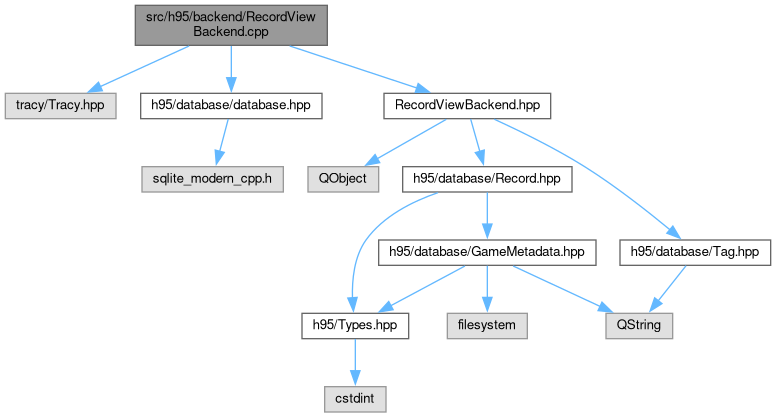
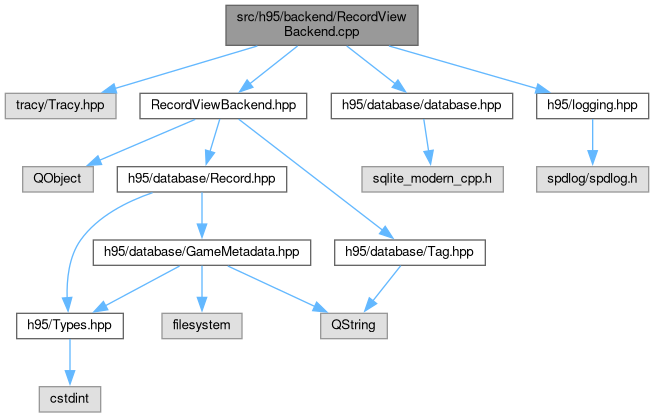
deploy: c4b53c696b7974b239e17b2eb460e0fbded31eec

diff --git a/GameMetadata_8hpp_source.html b/GameMetadata_8hpp_source.html
@@ -148,22 +148,19 @@ $(document).ready(function(){initNavTree('GameMetadata_8hpp_source.html',''); in
 <div class="line"><a id="l00040" name="l00040"></a><span class="lineno">   40</span> </div>
 <div class="line"><a id="l00042" name="l00042"></a><span class="lineno">   42</span>    <span class="keyword">static</span> std::vector&lt; GameMetadata &gt; <a class="code hl_function" href="structGameMetadata.html#aae9fd683e549650cfc7066165f686239">select</a>( <span class="keyword">const</span> <a class="code hl_typedef" href="Types_8hpp.html#a7781c4e1eb7252d6c4f422f1d180c49e">RecordID</a> <span class="keywordtype">id</span> );</div>
 <div class="line"><a id="l00043" name="l00043"></a><span class="lineno">   43</span> </div>
-<div class="line"><a id="l00045" name="l00045"></a><span class="lineno">   45</span>    <span class="keyword">static</span> <span class="keywordtype">void</span> <a class="code hl_function" href="structGameMetadata.html#a57e8794552d02824c3e625449e9369ce">update</a>( <span class="keyword">const</span> <a class="code hl_typedef" href="Types_8hpp.html#a7781c4e1eb7252d6c4f422f1d180c49e">RecordID</a> <span class="keywordtype">id</span>, <span class="keyword">const</span> <a class="code hl_struct" href="structGameMetadata.html">GameMetadata</a>&amp; metadata );</div>
-<div class="line"><a id="l00046" name="l00046"></a><span class="lineno">   46</span> </div>
-<div class="line"><a id="l00048" name="l00048"></a><span class="lineno">   48</span>    <span class="keyword">static</span> <a class="code hl_struct" href="structGameMetadata.html">GameMetadata</a> <a class="code hl_function" href="structGameMetadata.html#a85c5d97c1aaba6ff9a94253949719386">insert</a>( <span class="keyword">const</span> <a class="code hl_typedef" href="Types_8hpp.html#a7781c4e1eb7252d6c4f422f1d180c49e">RecordID</a> <span class="keywordtype">id</span>, <span class="keyword">const</span> <a class="code hl_struct" href="structGameMetadata.html">GameMetadata</a>&amp; metadata );</div>
-<div class="line"><a id="l00049" name="l00049"></a><span class="lineno">   49</span>};</div>
-<div class="line"><a id="l00050" name="l00050"></a><span class="lineno">   50</span> </div>
-<div class="line"><a id="l00051" name="l00051"></a><span class="lineno">   51</span> </div>
-<div class="line"><a id="l00052" name="l00052"></a><span class="lineno">   52</span><span class="preprocessor">#endif  </span><span class="comment">//HYDRUS95_GAMEMETADATA_HPP</span></div>
+<div class="line"><a id="l00045" name="l00045"></a><span class="lineno">   45</span>    <span class="keyword">static</span> <a class="code hl_struct" href="structGameMetadata.html">GameMetadata</a> <a class="code hl_function" href="structGameMetadata.html#a85c5d97c1aaba6ff9a94253949719386">insert</a>( <span class="keyword">const</span> <a class="code hl_typedef" href="Types_8hpp.html#a7781c4e1eb7252d6c4f422f1d180c49e">RecordID</a> <span class="keywordtype">id</span>, <span class="keyword">const</span> <a class="code hl_struct" href="structGameMetadata.html">GameMetadata</a>&amp; metadata );</div>
+<div class="line"><a id="l00046" name="l00046"></a><span class="lineno">   46</span>};</div>
+<div class="line"><a id="l00047" name="l00047"></a><span class="lineno">   47</span> </div>
+<div class="line"><a id="l00048" name="l00048"></a><span class="lineno">   48</span> </div>
+<div class="line"><a id="l00049" name="l00049"></a><span class="lineno">   49</span><span class="preprocessor">#endif  </span><span class="comment">//HYDRUS95_GAMEMETADATA_HPP</span></div>
 <div class="ttc" id="aTypes_8hpp_html"><div class="ttname"><a href="Types_8hpp.html">Types.hpp</a></div></div>
 <div class="ttc" id="aTypes_8hpp_html_a7781c4e1eb7252d6c4f422f1d180c49e"><div class="ttname"><a href="Types_8hpp.html#a7781c4e1eb7252d6c4f422f1d180c49e">RecordID</a></div><div class="ttdeci">uint32_t RecordID</div><div class="ttdef"><b>Definition:</b> Types.hpp:10</div></div>
 <div class="ttc" id="astructGameMetadata_html"><div class="ttname"><a href="structGameMetadata.html">GameMetadata</a></div><div class="ttdef"><b>Definition:</b> GameMetadata.hpp:15</div></div>
 <div class="ttc" id="astructGameMetadata_html_a1adca43aa0b605dd7cc62f1109390aff"><div class="ttname"><a href="structGameMetadata.html#a1adca43aa0b605dd7cc62f1109390aff">GameMetadata::m_ignore_global_launch_config</a></div><div class="ttdeci">bool m_ignore_global_launch_config</div><div class="ttdef"><b>Definition:</b> GameMetadata.hpp:26</div></div>
 <div class="ttc" id="astructGameMetadata_html_a42192e6cd8835fe3d24da06794896bca"><div class="ttname"><a href="structGameMetadata.html#a42192e6cd8835fe3d24da06794896bca">GameMetadata::m_use_custom_launch_config</a></div><div class="ttdeci">bool m_use_custom_launch_config</div><div class="ttdef"><b>Definition:</b> GameMetadata.hpp:25</div></div>
-<div class="ttc" id="astructGameMetadata_html_a57e8794552d02824c3e625449e9369ce"><div class="ttname"><a href="structGameMetadata.html#a57e8794552d02824c3e625449e9369ce">GameMetadata::update</a></div><div class="ttdeci">static void update(const RecordID id, const GameMetadata &amp;metadata)</div><div class="ttdoc">Updates information in the database for given metadata and id.</div><div class="ttdef"><b>Definition:</b> GameMetadata.cpp:30</div></div>
 <div class="ttc" id="astructGameMetadata_html_a5a84e38f41f7728ffcf6f151ec36e875"><div class="ttname"><a href="structGameMetadata.html#a5a84e38f41f7728ffcf6f151ec36e875">GameMetadata::m_custom_launch_str</a></div><div class="ttdeci">QString m_custom_launch_str</div><div class="ttdef"><b>Definition:</b> GameMetadata.hpp:24</div></div>
 <div class="ttc" id="astructGameMetadata_html_a62316e65e2cebb3220279e99bc6e0a6e"><div class="ttname"><a href="structGameMetadata.html#a62316e65e2cebb3220279e99bc6e0a6e">GameMetadata::GameMetadata</a></div><div class="ttdeci">GameMetadata()=delete</div></div>
-<div class="ttc" id="astructGameMetadata_html_a85c5d97c1aaba6ff9a94253949719386"><div class="ttname"><a href="structGameMetadata.html#a85c5d97c1aaba6ff9a94253949719386">GameMetadata::insert</a></div><div class="ttdeci">static GameMetadata insert(const RecordID id, const GameMetadata &amp;metadata)</div><div class="ttdoc">Inserts a new set of metadata (Calls update if already exists)</div><div class="ttdef"><b>Definition:</b> GameMetadata.cpp:39</div></div>
+<div class="ttc" id="astructGameMetadata_html_a85c5d97c1aaba6ff9a94253949719386"><div class="ttname"><a href="structGameMetadata.html#a85c5d97c1aaba6ff9a94253949719386">GameMetadata::insert</a></div><div class="ttdeci">static GameMetadata insert(const RecordID id, const GameMetadata &amp;metadata)</div><div class="ttdoc">Inserts a new set of metadata (Calls update if already exists)</div><div class="ttdef"><b>Definition:</b> GameMetadata.cpp:32</div></div>
 <div class="ttc" id="astructGameMetadata_html_a91c33dc2dda86c4b171e1f104227bc88"><div class="ttname"><a href="structGameMetadata.html#a91c33dc2dda86c4b171e1f104227bc88">GameMetadata::m_game_path</a></div><div class="ttdeci">std::filesystem::path m_game_path</div><div class="ttdoc">Path to the game folder.</div><div class="ttdef"><b>Definition:</b> GameMetadata.hpp:19</div></div>
 <div class="ttc" id="astructGameMetadata_html_a9ca26d0ecb32d4390068c6542f0efd97"><div class="ttname"><a href="structGameMetadata.html#a9ca26d0ecb32d4390068c6542f0efd97">GameMetadata::m_version</a></div><div class="ttdeci">QString m_version</div><div class="ttdef"><b>Definition:</b> GameMetadata.hpp:16</div></div>
 <div class="ttc" id="astructGameMetadata_html_aae9fd683e549650cfc7066165f686239"><div class="ttname"><a href="structGameMetadata.html#aae9fd683e549650cfc7066165f686239">GameMetadata::select</a></div><div class="ttdeci">static std::vector&lt; GameMetadata &gt; select(const RecordID id)</div><div class="ttdoc">Returns a populated GameMetadata for the given id from the database.</div><div class="ttdef"><b>Definition:</b> GameMetadata.cpp:13</div></div>

diff --git a/Record_8hpp_source.html b/Record_8hpp_source.html
@@ -191,17 +191,17 @@ $(document).ready(function(){initNavTree('Record_8hpp_source.html',''); initResi
 <div class="ttc" id="astructRecord_html_a07f3aa92a3ba2d20d2d7c9111732487f"><div class="ttname"><a href="structRecord.html#a07f3aa92a3ba2d20d2d7c9111732487f">Record::operator==</a></div><div class="ttdeci">bool operator==(const Record &amp;other) const =default</div></div>
 <div class="ttc" id="astructRecord_html_a1224412e19ae58ccd7fb194e2f61e1b3"><div class="ttname"><a href="structRecord.html#a1224412e19ae58ccd7fb194e2f61e1b3">Record::create</a></div><div class="ttdeci">static Record create(const QString &amp;title, const QString &amp;creator, const QString &amp;engine, const GameMetadata &amp;metadata, const std::filesystem::path &amp;banner, const std::vector&lt; std::filesystem::path &gt; &amp;previews)</div><div class="ttdoc">Creates a record and inserts it into the database.</div><div class="ttdef"><b>Definition:</b> Record.cpp:22</div></div>
 <div class="ttc" id="astructRecord_html_a162debb39ebd6de13b9404b7aa961b85"><div class="ttname"><a href="structRecord.html#a162debb39ebd6de13b9404b7aa961b85">Record::m_engine</a></div><div class="ttdeci">QString m_engine</div><div class="ttdef"><b>Definition:</b> Record.hpp:18</div></div>
-<div class="ttc" id="astructRecord_html_a40d83547e0b2d07d854368fc7996acbc"><div class="ttname"><a href="structRecord.html#a40d83547e0b2d07d854368fc7996acbc">Record::getBanner</a></div><div class="ttdeci">QPixmap getBanner() const</div><div class="ttdoc">Returns the banner for the record.</div><div class="ttdef"><b>Definition:</b> Record.cpp:147</div></div>
+<div class="ttc" id="astructRecord_html_a40d83547e0b2d07d854368fc7996acbc"><div class="ttname"><a href="structRecord.html#a40d83547e0b2d07d854368fc7996acbc">Record::getBanner</a></div><div class="ttdeci">QPixmap getBanner() const</div><div class="ttdoc">Returns the banner for the record.</div><div class="ttdef"><b>Definition:</b> Record.cpp:161</div></div>
 <div class="ttc" id="astructRecord_html_a5441ab12a73bc474dd127ea05e714c33"><div class="ttname"><a href="structRecord.html#a5441ab12a73bc474dd127ea05e714c33">Record::m_banner</a></div><div class="ttdeci">std::filesystem::path m_banner</div><div class="ttdef"><b>Definition:</b> Record.hpp:22</div></div>
-<div class="ttc" id="astructRecord_html_a65ddba99ef46c3e0014f3224a52bb844"><div class="ttname"><a href="structRecord.html#a65ddba99ef46c3e0014f3224a52bb844">Record::erase</a></div><div class="ttdeci">static void erase(const RecordID)</div><div class="ttdef"><b>Definition:</b> Record.cpp:292</div></div>
+<div class="ttc" id="astructRecord_html_a65ddba99ef46c3e0014f3224a52bb844"><div class="ttname"><a href="structRecord.html#a65ddba99ef46c3e0014f3224a52bb844">Record::erase</a></div><div class="ttdeci">static void erase(const RecordID)</div><div class="ttdef"><b>Definition:</b> Record.cpp:318</div></div>
 <div class="ttc" id="astructRecord_html_a6f32aa6ab509c27e48131b8b89f0c529"><div class="ttname"><a href="structRecord.html#a6f32aa6ab509c27e48131b8b89f0c529">Record::m_creator</a></div><div class="ttdeci">QString m_creator</div><div class="ttdef"><b>Definition:</b> Record.hpp:17</div></div>
 <div class="ttc" id="astructRecord_html_a755684ef8086941b16bb7955b7e94749"><div class="ttname"><a href="structRecord.html#a755684ef8086941b16bb7955b7e94749">Record::m_id</a></div><div class="ttdeci">RecordID m_id</div><div class="ttdef"><b>Definition:</b> Record.hpp:15</div></div>
 <div class="ttc" id="astructRecord_html_a796d9dce904827c324784f9aeee69faf"><div class="ttname"><a href="structRecord.html#a796d9dce904827c324784f9aeee69faf">Record::m_versions</a></div><div class="ttdeci">std::vector&lt; GameMetadata &gt; m_versions</div><div class="ttdef"><b>Definition:</b> Record.hpp:20</div></div>
-<div class="ttc" id="astructRecord_html_a813e7c562111209425ff3a5aed58b747"><div class="ttname"><a href="structRecord.html#a813e7c562111209425ff3a5aed58b747">Record::search</a></div><div class="ttdeci">static RecordID search(const QString &amp;title, const QString &amp;creator, const QString &amp;engine, const RecordID anti_id=0)</div><div class="ttdef"><b>Definition:</b> Record.cpp:128</div></div>
+<div class="ttc" id="astructRecord_html_a813e7c562111209425ff3a5aed58b747"><div class="ttname"><a href="structRecord.html#a813e7c562111209425ff3a5aed58b747">Record::search</a></div><div class="ttdeci">static RecordID search(const QString &amp;title, const QString &amp;creator, const QString &amp;engine, const RecordID anti_id=0)</div><div class="ttdef"><b>Definition:</b> Record.cpp:139</div></div>
 <div class="ttc" id="astructRecord_html_aba36276b88f723f6ccd4ee7e64d9feb9"><div class="ttname"><a href="structRecord.html#aba36276b88f723f6ccd4ee7e64d9feb9">Record::m_previews</a></div><div class="ttdeci">std::vector&lt; std::filesystem::path &gt; m_previews</div><div class="ttdef"><b>Definition:</b> Record.hpp:23</div></div>
 <div class="ttc" id="astructRecord_html_abebe8e3f8b2cd5df4e36aff8eea44749"><div class="ttname"><a href="structRecord.html#abebe8e3f8b2cd5df4e36aff8eea44749">Record::m_title</a></div><div class="ttdeci">QString m_title</div><div class="ttdef"><b>Definition:</b> Record.hpp:16</div></div>
-<div class="ttc" id="astructRecord_html_acef48e262b25aba8e73f530955cd8da0"><div class="ttname"><a href="structRecord.html#acef48e262b25aba8e73f530955cd8da0">Record::select</a></div><div class="ttdeci">static Record select(const RecordID id)</div><div class="ttdoc">Selects a record from the database.</div><div class="ttdef"><b>Definition:</b> Record.cpp:81</div></div>
-<div class="ttc" id="astructRecord_html_af8ca213bd8bc5189926d504f1c110b9d"><div class="ttname"><a href="structRecord.html#af8ca213bd8bc5189926d504f1c110b9d">Record::update</a></div><div class="ttdeci">static void update(const RecordID id, Record &amp;record)</div><div class="ttdoc">Updates a record with new information.</div><div class="ttdef"><b>Definition:</b> Record.cpp:187</div></div>
+<div class="ttc" id="astructRecord_html_acef48e262b25aba8e73f530955cd8da0"><div class="ttname"><a href="structRecord.html#acef48e262b25aba8e73f530955cd8da0">Record::select</a></div><div class="ttdeci">static Record select(const RecordID id)</div><div class="ttdoc">Selects a record from the database.</div><div class="ttdef"><b>Definition:</b> Record.cpp:87</div></div>
+<div class="ttc" id="astructRecord_html_af8ca213bd8bc5189926d504f1c110b9d"><div class="ttname"><a href="structRecord.html#af8ca213bd8bc5189926d504f1c110b9d">Record::update</a></div><div class="ttdeci">static void update(const RecordID id, Record &amp;record)</div><div class="ttdoc">Updates a record with new information.</div><div class="ttdef"><b>Definition:</b> Record.cpp:207</div></div>
 </div><!-- fragment --></div><!-- contents -->
 </div><!-- doc-content -->
 <!-- start footer part -->

diff --git a/RecordViewBackend_8hpp_source.html b/RecordViewBackend_8hpp_source.html
@@ -148,13 +148,13 @@ $(document).ready(function(){initNavTree('RecordViewBackend_8hpp_source.html',''
 <div class="ttc" id="aRecord_8hpp_html"><div class="ttname"><a href="Record_8hpp.html">Record.hpp</a></div></div>
 <div class="ttc" id="aTag_8hpp_html"><div class="ttname"><a href="Tag_8hpp.html">Tag.hpp</a></div></div>
 <div class="ttc" id="aclassRecordViewBackend_html"><div class="ttname"><a href="classRecordViewBackend.html">RecordViewBackend</a></div><div class="ttdef"><b>Definition:</b> RecordViewBackend.hpp:14</div></div>
-<div class="ttc" id="aclassRecordViewBackend_html_a057225f887a10728fcdd220dd28e3076"><div class="ttname"><a href="classRecordViewBackend.html#a057225f887a10728fcdd220dd28e3076">RecordViewBackend::addTag</a></div><div class="ttdeci">void addTag(const Tag &amp;tag)</div><div class="ttdoc">Adds a tag to the taglist.</div><div class="ttdef"><b>Definition:</b> RecordViewBackend.cpp:26</div></div>
-<div class="ttc" id="aclassRecordViewBackend_html_a080c59de310c345c0b81689770799647"><div class="ttname"><a href="classRecordViewBackend.html#a080c59de310c345c0b81689770799647">RecordViewBackend::refresh</a></div><div class="ttdeci">void refresh()</div><div class="ttdef"><b>Definition:</b> RecordViewBackend.cpp:39</div></div>
+<div class="ttc" id="aclassRecordViewBackend_html_a057225f887a10728fcdd220dd28e3076"><div class="ttname"><a href="classRecordViewBackend.html#a057225f887a10728fcdd220dd28e3076">RecordViewBackend::addTag</a></div><div class="ttdeci">void addTag(const Tag &amp;tag)</div><div class="ttdoc">Adds a tag to the taglist.</div><div class="ttdef"><b>Definition:</b> RecordViewBackend.cpp:29</div></div>
+<div class="ttc" id="aclassRecordViewBackend_html_a080c59de310c345c0b81689770799647"><div class="ttname"><a href="classRecordViewBackend.html#a080c59de310c345c0b81689770799647">RecordViewBackend::refresh</a></div><div class="ttdeci">void refresh()</div><div class="ttdef"><b>Definition:</b> RecordViewBackend.cpp:42</div></div>
 <div class="ttc" id="aclassRecordViewBackend_html_a734582d7a8a6d7036f341e86d3cfff70"><div class="ttname"><a href="classRecordViewBackend.html#a734582d7a8a6d7036f341e86d3cfff70">RecordViewBackend::tagsChanged</a></div><div class="ttdeci">void tagsChanged(const std::vector&lt; Tag &gt; &amp;tags)</div><div class="ttdoc">Emitted when the tag list has changed.</div></div>
 <div class="ttc" id="aclassRecordViewBackend_html_ab3214cf0fb86ed1883522e044a933141"><div class="ttname"><a href="classRecordViewBackend.html#ab3214cf0fb86ed1883522e044a933141">RecordViewBackend::recordsUpdated</a></div><div class="ttdeci">void recordsUpdated(const std::vector&lt; Record &gt; &amp;records)</div><div class="ttdoc">Emitted when a search is completed for tags or when a new record is added.</div></div>
-<div class="ttc" id="aclassRecordViewBackend_html_ac5ebd7ff5f3ba27e7fe25ee92f047983"><div class="ttname"><a href="classRecordViewBackend.html#ac5ebd7ff5f3ba27e7fe25ee92f047983">RecordViewBackend::getTags</a></div><div class="ttdeci">std::vector&lt; Tag &gt; getTags() const</div><div class="ttdef"><b>Definition:</b> RecordViewBackend.cpp:46</div></div>
+<div class="ttc" id="aclassRecordViewBackend_html_ac5ebd7ff5f3ba27e7fe25ee92f047983"><div class="ttname"><a href="classRecordViewBackend.html#ac5ebd7ff5f3ba27e7fe25ee92f047983">RecordViewBackend::getTags</a></div><div class="ttdeci">std::vector&lt; Tag &gt; getTags() const</div><div class="ttdef"><b>Definition:</b> RecordViewBackend.cpp:49</div></div>
 <div class="ttc" id="aclassRecordViewBackend_html_ad820f2af6dbec95196f57ca148882b04"><div class="ttname"><a href="classRecordViewBackend.html#ad820f2af6dbec95196f57ca148882b04">RecordViewBackend::similarTagFinished</a></div><div class="ttdeci">void similarTagFinished(const std::vector&lt; Tag &gt; &amp;tags)</div><div class="ttdoc">Emitted when a search for similar tags is done.</div></div>
-<div class="ttc" id="aclassRecordViewBackend_html_ade0b0fd4dd2f5cbd577da1a135fee0c6"><div class="ttname"><a href="classRecordViewBackend.html#ade0b0fd4dd2f5cbd577da1a135fee0c6">RecordViewBackend::removeTag</a></div><div class="ttdeci">void removeTag(const Tag &amp;tag)</div><div class="ttdoc">Removes a tag from the taglist.</div><div class="ttdef"><b>Definition:</b> RecordViewBackend.cpp:33</div></div>
+<div class="ttc" id="aclassRecordViewBackend_html_ade0b0fd4dd2f5cbd577da1a135fee0c6"><div class="ttname"><a href="classRecordViewBackend.html#ade0b0fd4dd2f5cbd577da1a135fee0c6">RecordViewBackend::removeTag</a></div><div class="ttdeci">void removeTag(const Tag &amp;tag)</div><div class="ttdoc">Removes a tag from the taglist.</div><div class="ttdef"><b>Definition:</b> RecordViewBackend.cpp:36</div></div>
 <div class="ttc" id="astructTag_html"><div class="ttname"><a href="structTag.html">Tag</a></div><div class="ttdoc">Basic tag representation (To fill out more later)</div><div class="ttdef"><b>Definition:</b> Tag.hpp:17</div></div>
 </div><!-- fragment --></div><!-- contents -->
 </div><!-- doc-content -->

diff --git a/structGameMetadata.html b/structGameMetadata.html
@@ -130,9 +130,6 @@ Static Public Member Functions</h2></td></tr>
 <tr class="memitem:aae9fd683e549650cfc7066165f686239"><td class="memItemLeft" align="right" valign="top">static std::vector&lt; <a class="el" href="structGameMetadata.html">GameMetadata</a> &gt;&#160;</td><td class="memItemRight" valign="bottom"><a class="el" href="structGameMetadata.html#aae9fd683e549650cfc7066165f686239">select</a> (const <a class="el" href="Types_8hpp.html#a7781c4e1eb7252d6c4f422f1d180c49e">RecordID</a> id)</td></tr>
 <tr class="memdesc:aae9fd683e549650cfc7066165f686239"><td class="mdescLeft">&#160;</td><td class="mdescRight">Returns a populated <a class="el" href="structGameMetadata.html">GameMetadata</a> for the given id from the database.  <br /></td></tr>
 <tr class="separator:aae9fd683e549650cfc7066165f686239"><td class="memSeparator" colspan="2">&#160;</td></tr>
-<tr class="memitem:a57e8794552d02824c3e625449e9369ce"><td class="memItemLeft" align="right" valign="top">static void&#160;</td><td class="memItemRight" valign="bottom"><a class="el" href="structGameMetadata.html#a57e8794552d02824c3e625449e9369ce">update</a> (const <a class="el" href="Types_8hpp.html#a7781c4e1eb7252d6c4f422f1d180c49e">RecordID</a> id, const <a class="el" href="structGameMetadata.html">GameMetadata</a> &amp;metadata)</td></tr>
-<tr class="memdesc:a57e8794552d02824c3e625449e9369ce"><td class="mdescLeft">&#160;</td><td class="mdescRight">Updates information in the database for given metadata and id.  <br /></td></tr>
-<tr class="separator:a57e8794552d02824c3e625449e9369ce"><td class="memSeparator" colspan="2">&#160;</td></tr>
 <tr class="memitem:a85c5d97c1aaba6ff9a94253949719386"><td class="memItemLeft" align="right" valign="top">static <a class="el" href="structGameMetadata.html">GameMetadata</a>&#160;</td><td class="memItemRight" valign="bottom"><a class="el" href="structGameMetadata.html#a85c5d97c1aaba6ff9a94253949719386">insert</a> (const <a class="el" href="Types_8hpp.html#a7781c4e1eb7252d6c4f422f1d180c49e">RecordID</a> id, const <a class="el" href="structGameMetadata.html">GameMetadata</a> &amp;metadata)</td></tr>
 <tr class="memdesc:a85c5d97c1aaba6ff9a94253949719386"><td class="mdescLeft">&#160;</td><td class="mdescRight">Inserts a new set of metadata (Calls update if already exists)  <br /></td></tr>
 <tr class="separator:a85c5d97c1aaba6ff9a94253949719386"><td class="memSeparator" colspan="2">&#160;</td></tr>
@@ -312,44 +309,6 @@ Public Attributes</h2></td></tr>
 </div><div class="memdoc">
 
 <p>Returns a populated <a class="el" href="structGameMetadata.html">GameMetadata</a> for the given id from the database. </p>
-
-</div>
-</div>
-<a id="a57e8794552d02824c3e625449e9369ce" name="a57e8794552d02824c3e625449e9369ce"></a>
-<h2 class="memtitle"><span class="permalink"><a href="#a57e8794552d02824c3e625449e9369ce">&#9670;&#160;</a></span>update()</h2>
-
-<div class="memitem">
-<div class="memproto">
-<table class="mlabels">
-  <tr>
-  <td class="mlabels-left">
-      <table class="memname">
-        <tr>
-          <td class="memname">void GameMetadata::update </td>
-          <td>(</td>
-          <td class="paramtype">const <a class="el" href="Types_8hpp.html#a7781c4e1eb7252d6c4f422f1d180c49e">RecordID</a>&#160;</td>
-          <td class="paramname"><em>id</em>, </td>
-        </tr>
-        <tr>
-          <td class="paramkey"></td>
-          <td></td>
-          <td class="paramtype">const <a class="el" href="structGameMetadata.html">GameMetadata</a> &amp;&#160;</td>
-          <td class="paramname"><em>metadata</em>&#160;</td>
-        </tr>
-        <tr>
-          <td></td>
-          <td>)</td>
-          <td></td><td></td>
-        </tr>
-      </table>
-  </td>
-  <td class="mlabels-right">
-<span class="mlabels"><span class="mlabel">static</span></span>  </td>
-  </tr>
-</table>
-</div><div class="memdoc">
-
-<p>Updates information in the database for given metadata and id. </p>
 
 </div>
 </div>

diff --git a/RecordViewBackend_8cpp.html b/RecordViewBackend_8cpp.html
@@ -111,26 +111,29 @@ $(document).ready(function(){initNavTree('RecordViewBackend_8cpp.html',''); init
 </div><!--header-->
 <div class="contents">
 <div class="textblock"><code>#include &lt;tracy/Tracy.hpp&gt;</code><br />
-<code>#include &quot;<a class="el" href="database_8hpp_source.html">h95/database/database.hpp</a>&quot;</code><br />
 <code>#include &quot;<a class="el" href="RecordViewBackend_8hpp_source.html">RecordViewBackend.hpp</a>&quot;</code><br />
+<code>#include &lt;<a class="el" href="database_8hpp_source.html">h95/database/database.hpp</a>&gt;</code><br />
+<code>#include &lt;<a class="el" href="logging_8hpp_source.html">h95/logging.hpp</a>&gt;</code><br />
 </div><div class="textblock"><div class="dynheader">
 Include dependency graph for RecordViewBackend.cpp:</div>
 <div class="dyncontent">
 <div class="center"><img src="RecordViewBackend_8cpp__incl.png" border="0" usemap="#asrc_2h95_2backend_2RecordViewBackend_8cpp" alt=""/></div>
 <map name="asrc_2h95_2backend_2RecordViewBackend_8cpp" id="asrc_2h95_2backend_2RecordViewBackend_8cpp">
-<area shape="rect" title=" " alt="" coords="135,5,327,45"/>
+<area shape="rect" title=" " alt="" coords="226,5,418,45"/>
 <area shape="rect" title=" " alt="" coords="5,93,116,119"/>
-<area shape="rect" href="database_8hpp.html" title=" " alt="" coords="141,93,322,119"/>
-<area shape="rect" href="RecordViewBackend_8hpp.html" title=" " alt="" coords="384,93,551,119"/>
-<area shape="rect" title=" " alt="" coords="142,167,283,192"/>
-<area shape="rect" title=" " alt="" coords="308,167,379,192"/>
-<area shape="rect" href="Record_8hpp.html" title=" " alt="" coords="403,167,572,192"/>
-<area shape="rect" href="Tag_8hpp.html" title=" " alt="" coords="620,240,771,265"/>
-<area shape="rect" href="Types_8hpp.html" title=" " alt="" coords="302,313,409,339"/>
-<area shape="rect" href="GameMetadata_8hpp.html" title=" " alt="" coords="379,240,596,265"/>
-<area shape="rect" title=" " alt="" coords="325,387,386,412"/>
-<area shape="rect" title=" " alt="" coords="447,313,527,339"/>
-<area shape="rect" title=" " alt="" coords="606,313,673,339"/>
+<area shape="rect" href="RecordViewBackend_8hpp.html" title=" " alt="" coords="140,93,307,119"/>
+<area shape="rect" href="database_8hpp.html" title=" " alt="" coords="331,93,513,119"/>
+<area shape="rect" href="logging_8hpp.html" title=" " alt="" coords="537,93,649,119"/>
+<area shape="rect" title=" " alt="" coords="23,167,93,192"/>
+<area shape="rect" href="Record_8hpp.html" title=" " alt="" coords="117,167,287,192"/>
+<area shape="rect" href="Tag_8hpp.html" title=" " alt="" coords="335,240,485,265"/>
+<area shape="rect" href="Types_8hpp.html" title=" " alt="" coords="17,313,123,339"/>
+<area shape="rect" href="GameMetadata_8hpp.html" title=" " alt="" coords="93,240,311,265"/>
+<area shape="rect" title=" " alt="" coords="39,387,101,412"/>
+<area shape="rect" title=" " alt="" coords="162,313,242,339"/>
+<area shape="rect" title=" " alt="" coords="321,313,387,339"/>
+<area shape="rect" title=" " alt="" coords="362,167,503,192"/>
+<area shape="rect" title=" " alt="" coords="537,167,649,192"/>
 </map>
 </div>
 </div><table class="memberdecls">

diff --git a/logging_8hpp.html b/logging_8hpp.html
@@ -125,21 +125,23 @@ This graph shows which files directly or indirectly include this file:</div>
 <div class="dyncontent">
 <div class="center"><img src="logging_8hpp__dep__incl.png" border="0" usemap="#asrc_2h95_2logging_8hppdep" alt=""/></div>
 <map name="asrc_2h95_2logging_8hppdep" id="asrc_2h95_2logging_8hppdep">
-<area shape="rect" title=" " alt="" coords="1818,5,1953,31"/>
+<area shape="rect" title=" " alt="" coords="1766,5,1901,31"/>
 <area shape="rect" href="Importer_8cpp.html" title=" " alt="" coords="5,174,147,199"/>
-<area shape="rect" href="Importer_8hpp.html" title=" " alt="" coords="213,86,355,111"/>
-<area shape="rect" href="KeyReplacer_8cpp.html" title=" " alt="" coords="794,86,961,111"/>
-<area shape="rect" href="config_8hpp.html" title=" " alt="" coords="985,86,1111,111"/>
+<area shape="rect" href="Importer_8hpp.html" title=" " alt="" coords="180,86,321,111"/>
+<area shape="rect" href="KeyReplacer_8cpp.html" title=" " alt="" coords="674,86,841,111"/>
+<area shape="rect" href="RecordViewBackend_8cpp.html" title=" " alt="" coords="865,79,1057,119"/>
+<area shape="rect" href="config_8hpp.html" title=" " alt="" coords="1082,86,1209,111"/>
 <area shape="rect" href="MainWindow_8cpp.html" title=" " alt="" coords="506,350,662,375"/>
 <area shape="rect" href="GameEditDialog_8cpp.html" title=" " alt="" coords="687,350,900,375"/>
 <area shape="rect" href="database_8cpp.html" title=" " alt="" coords="1352,174,1555,199"/>
 <area shape="rect" href="main_8cpp.html" title=" " alt="" coords="1579,174,1675,199"/>
 <area shape="rect" href="RecordView_8cpp.html" title=" " alt="" coords="1699,174,1880,199"/>
-<area shape="rect" href="executeProc_8cpp.html" title=" " alt="" coords="2005,86,2171,111"/>
-<area shape="rect" href="logging_8cpp.html" title=" " alt="" coords="2195,86,2330,111"/>
-<area shape="rect" href="GameEditImageModel_8cpp.html" title=" " alt="" coords="2355,79,2544,119"/>
-<area shape="rect" href="GameEditVersionModel_8cpp.html" title=" " alt="" coords="2568,79,2765,119"/>
-<area shape="rect" href="RecordViewWidget_8cpp.html" title=" " alt="" coords="2789,79,2949,119"/>
+<area shape="rect" href="GameMetadata_8cpp.html" title=" " alt="" coords="1986,86,2225,111"/>
+<area shape="rect" href="executeProc_8cpp.html" title=" " alt="" coords="2249,86,2415,111"/>
+<area shape="rect" href="logging_8cpp.html" title=" " alt="" coords="2439,86,2574,111"/>
+<area shape="rect" href="GameEditImageModel_8cpp.html" title=" " alt="" coords="2599,79,2788,119"/>
+<area shape="rect" href="GameEditVersionModel_8cpp.html" title=" " alt="" coords="2812,79,3009,119"/>
+<area shape="rect" href="RecordViewWidget_8cpp.html" title=" " alt="" coords="3033,79,3193,119"/>
 <area shape="rect" href="Record_8cpp.html" title=" " alt="" coords="222,174,413,199"/>
 <area shape="rect" href="GameImportDialog_8cpp.html" title=" " alt="" coords="237,343,405,383"/>
 <area shape="rect" href="PathManager_8hpp.html" title=" " alt="" coords="437,174,608,199"/>

diff --git a/GameMetadata_8cpp.html b/GameMetadata_8cpp.html
@@ -111,22 +111,25 @@ $(document).ready(function(){initNavTree('GameMetadata_8cpp.html',''); initResiz
 <div class="textblock"><code>#include &lt;string&gt;</code><br />
 <code>#include &lt;tracy/Tracy.hpp&gt;</code><br />
 <code>#include &lt;<a class="el" href="database_8hpp_source.html">h95/database/database.hpp</a>&gt;</code><br />
+<code>#include &lt;<a class="el" href="logging_8hpp_source.html">h95/logging.hpp</a>&gt;</code><br />
 <code>#include &lt;<a class="el" href="GameMetadata_8hpp_source.html">h95/database/GameMetadata.hpp</a>&gt;</code><br />
 </div><div class="textblock"><div class="dynheader">
 Include dependency graph for GameMetadata.cpp:</div>
 <div class="dyncontent">
 <div class="center"><img src="GameMetadata_8cpp__incl.png" border="0" usemap="#asrc_2h95_2database_2GameMetadata_8cpp" alt=""/></div>
 <map name="asrc_2h95_2database_2GameMetadata_8cpp" id="asrc_2h95_2database_2GameMetadata_8cpp">
-<area shape="rect" title=" " alt="" coords="105,5,344,31"/>
+<area shape="rect" title=" " alt="" coords="191,5,429,31"/>
 <area shape="rect" title=" " alt="" coords="5,79,60,104"/>
 <area shape="rect" title=" " alt="" coords="84,79,195,104"/>
 <area shape="rect" href="database_8hpp.html" title=" " alt="" coords="219,79,401,104"/>
-<area shape="rect" href="GameMetadata_8hpp.html" title=" " alt="" coords="429,79,647,104"/>
-<area shape="rect" title=" " alt="" coords="238,152,379,177"/>
-<area shape="rect" title=" " alt="" coords="403,152,483,177"/>
-<area shape="rect" title=" " alt="" coords="507,152,574,177"/>
-<area shape="rect" href="Types_8hpp.html" title=" " alt="" coords="598,152,705,177"/>
-<area shape="rect" title=" " alt="" coords="621,225,682,251"/>
+<area shape="rect" href="logging_8hpp.html" title=" " alt="" coords="425,79,537,104"/>
+<area shape="rect" href="GameMetadata_8hpp.html" title=" " alt="" coords="569,79,787,104"/>
+<area shape="rect" title=" " alt="" coords="239,152,381,177"/>
+<area shape="rect" title=" " alt="" coords="414,152,526,177"/>
+<area shape="rect" title=" " alt="" coords="550,152,630,177"/>
+<area shape="rect" title=" " alt="" coords="654,152,721,177"/>
+<area shape="rect" href="Types_8hpp.html" title=" " alt="" coords="745,152,851,177"/>
+<area shape="rect" title=" " alt="" coords="767,225,829,251"/>
 </map>
 </div>
 </div></div><!-- contents -->

diff --git a/structGameMetadata-members.html b/structGameMetadata-members.html
@@ -122,7 +122,6 @@ $(document).ready(function(){initNavTree('structGameMetadata.html',''); initResi
   <tr class="even"><td class="entry"><a class="el" href="structGameMetadata.html#a9ca26d0ecb32d4390068c6542f0efd97">m_version</a></td><td class="entry"><a class="el" href="structGameMetadata.html">GameMetadata</a></td><td class="entry"></td></tr>
   <tr class="odd"><td class="entry"><a class="el" href="structGameMetadata.html#ab302459c96a07a9220ced9e37ad9abcb">operator==</a>(const GameMetadata &amp;other) const =default</td><td class="entry"><a class="el" href="structGameMetadata.html">GameMetadata</a></td><td class="entry"></td></tr>
   <tr class="even"><td class="entry"><a class="el" href="structGameMetadata.html#aae9fd683e549650cfc7066165f686239">select</a>(const RecordID id)</td><td class="entry"><a class="el" href="structGameMetadata.html">GameMetadata</a></td><td class="entry"><span class="mlabel">static</span></td></tr>
-  <tr class="odd"><td class="entry"><a class="el" href="structGameMetadata.html#a57e8794552d02824c3e625449e9369ce">update</a>(const RecordID id, const GameMetadata &amp;metadata)</td><td class="entry"><a class="el" href="structGameMetadata.html">GameMetadata</a></td><td class="entry"><span class="mlabel">static</span></td></tr>
 </table></div><!-- contents -->
 </div><!-- doc-content -->
 <!-- start footer part -->

diff --git a/search/all_10.js b/search/all_10.js
@@ -1,5 +1,5 @@
 var searchData=
 [
   ['ui_0',['Ui',['../namespaceUi.html',1,'']]],
-  ['update_1',['update',['../structGameMetadata.html#a57e8794552d02824c3e625449e9369ce',1,'GameMetadata::update()'],['../structRecord.html#af8ca213bd8bc5189926d504f1c110b9d',1,'Record::update()'],['../namespacedatabase.html#a55d2f2084a329f7046dd684b44f743a4',1,'database::update()']]]
+  ['update_1',['update',['../structRecord.html#af8ca213bd8bc5189926d504f1c110b9d',1,'Record::update()'],['../namespacedatabase.html#a55d2f2084a329f7046dd684b44f743a4',1,'database::update()']]]
 ];

diff --git a/search/functions_f.js b/search/functions_f.js
@@ -1,4 +1,4 @@
 var searchData=
 [
-  ['update_0',['update',['../structGameMetadata.html#a57e8794552d02824c3e625449e9369ce',1,'GameMetadata::update()'],['../structRecord.html#af8ca213bd8bc5189926d504f1c110b9d',1,'Record::update()'],['../namespacedatabase.html#a55d2f2084a329f7046dd684b44f743a4',1,'database::update()']]]
+  ['update_0',['update',['../structRecord.html#af8ca213bd8bc5189926d504f1c110b9d',1,'Record::update()'],['../namespacedatabase.html#a55d2f2084a329f7046dd684b44f743a4',1,'database::update()']]]
 ];

diff --git a/functions.html b/functions.html
@@ -255,7 +255,7 @@ $(document).ready(function(){initNavTree('functions.html',''); initResizable(); 
 
 
 <h3><a id="index_u" name="index_u"></a>- u -</h3><ul>
-<li>update()&#160;:&#160;<a class="el" href="structGameMetadata.html#a57e8794552d02824c3e625449e9369ce">GameMetadata</a>, <a class="el" href="structRecord.html#af8ca213bd8bc5189926d504f1c110b9d">Record</a></li>
+<li>update()&#160;:&#160;<a class="el" href="structRecord.html#af8ca213bd8bc5189926d504f1c110b9d">Record</a></li>
 </ul>
 
 

diff --git a/functions_func.html b/functions_func.html
@@ -239,7 +239,7 @@ $(document).ready(function(){initNavTree('functions_func.html',''); initResizabl
 
 
 <h3><a id="index_u" name="index_u"></a>- u -</h3><ul>
-<li>update()&#160;:&#160;<a class="el" href="structGameMetadata.html#a57e8794552d02824c3e625449e9369ce">GameMetadata</a>, <a class="el" href="structRecord.html#af8ca213bd8bc5189926d504f1c110b9d">Record</a></li>
+<li>update()&#160;:&#160;<a class="el" href="structRecord.html#af8ca213bd8bc5189926d504f1c110b9d">Record</a></li>
 </ul>
 
 
